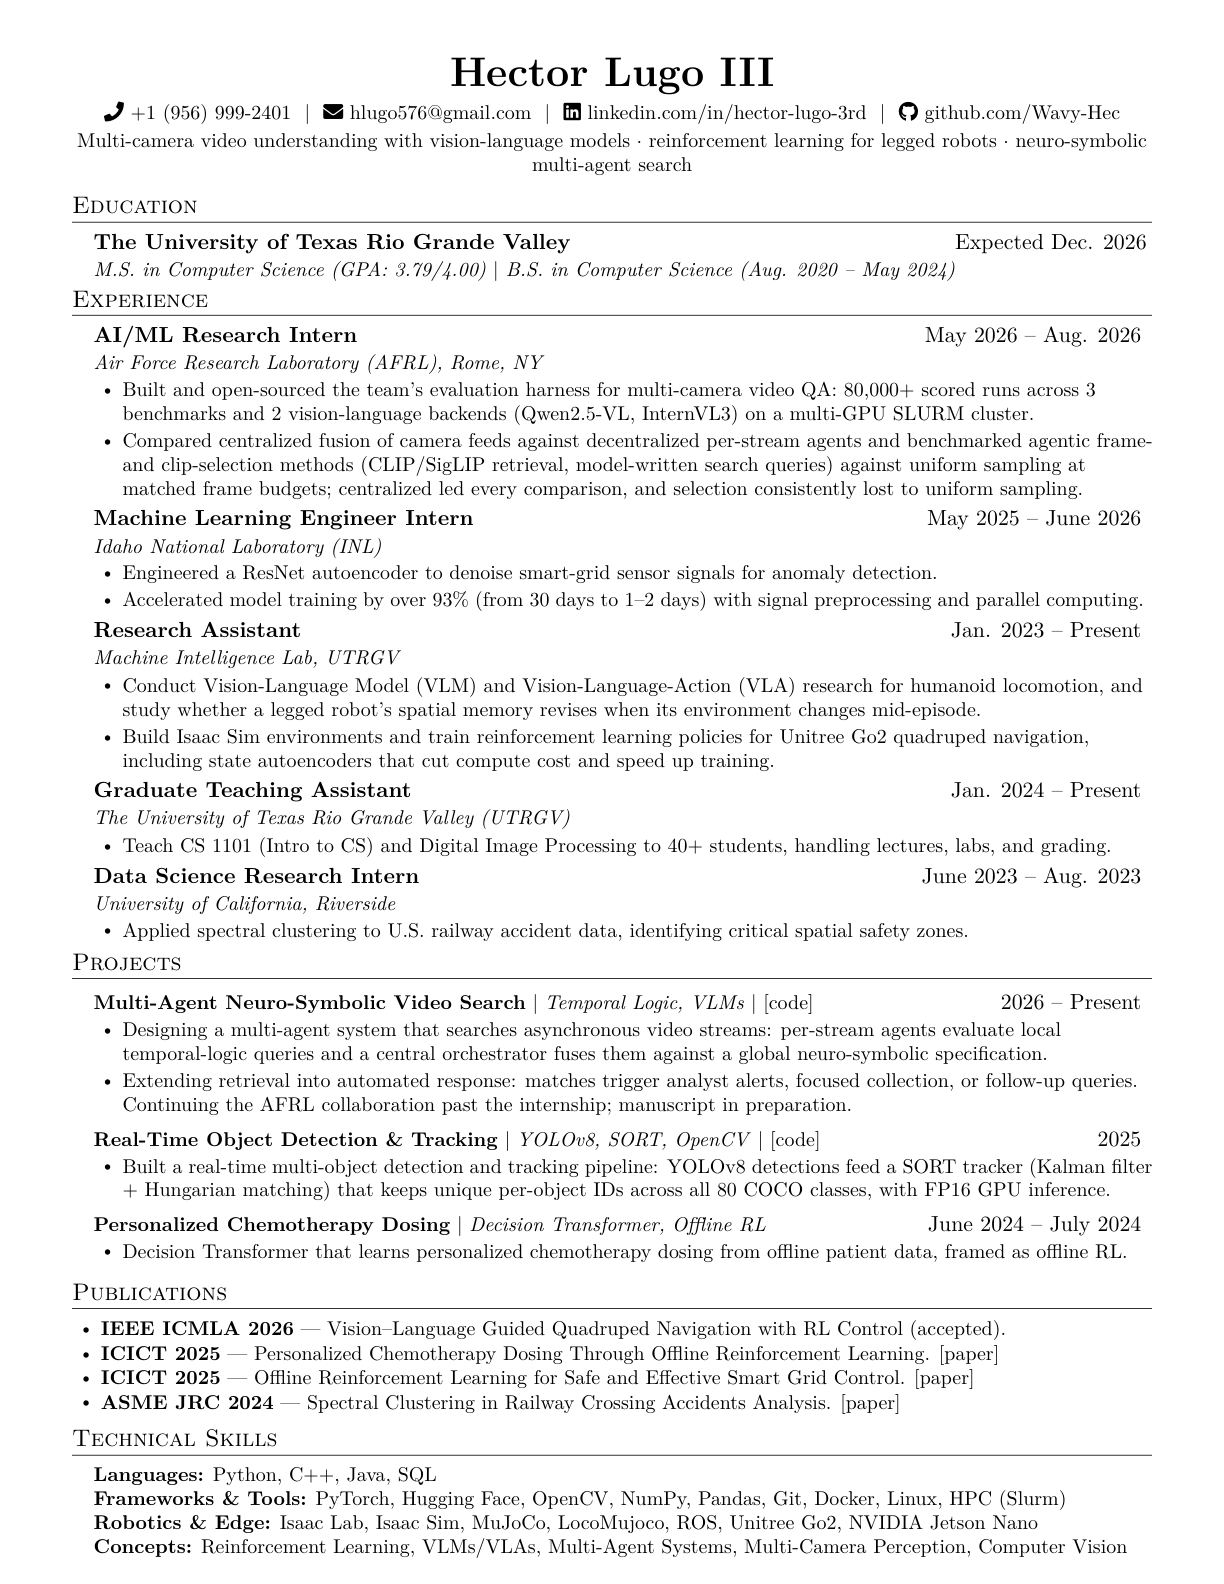
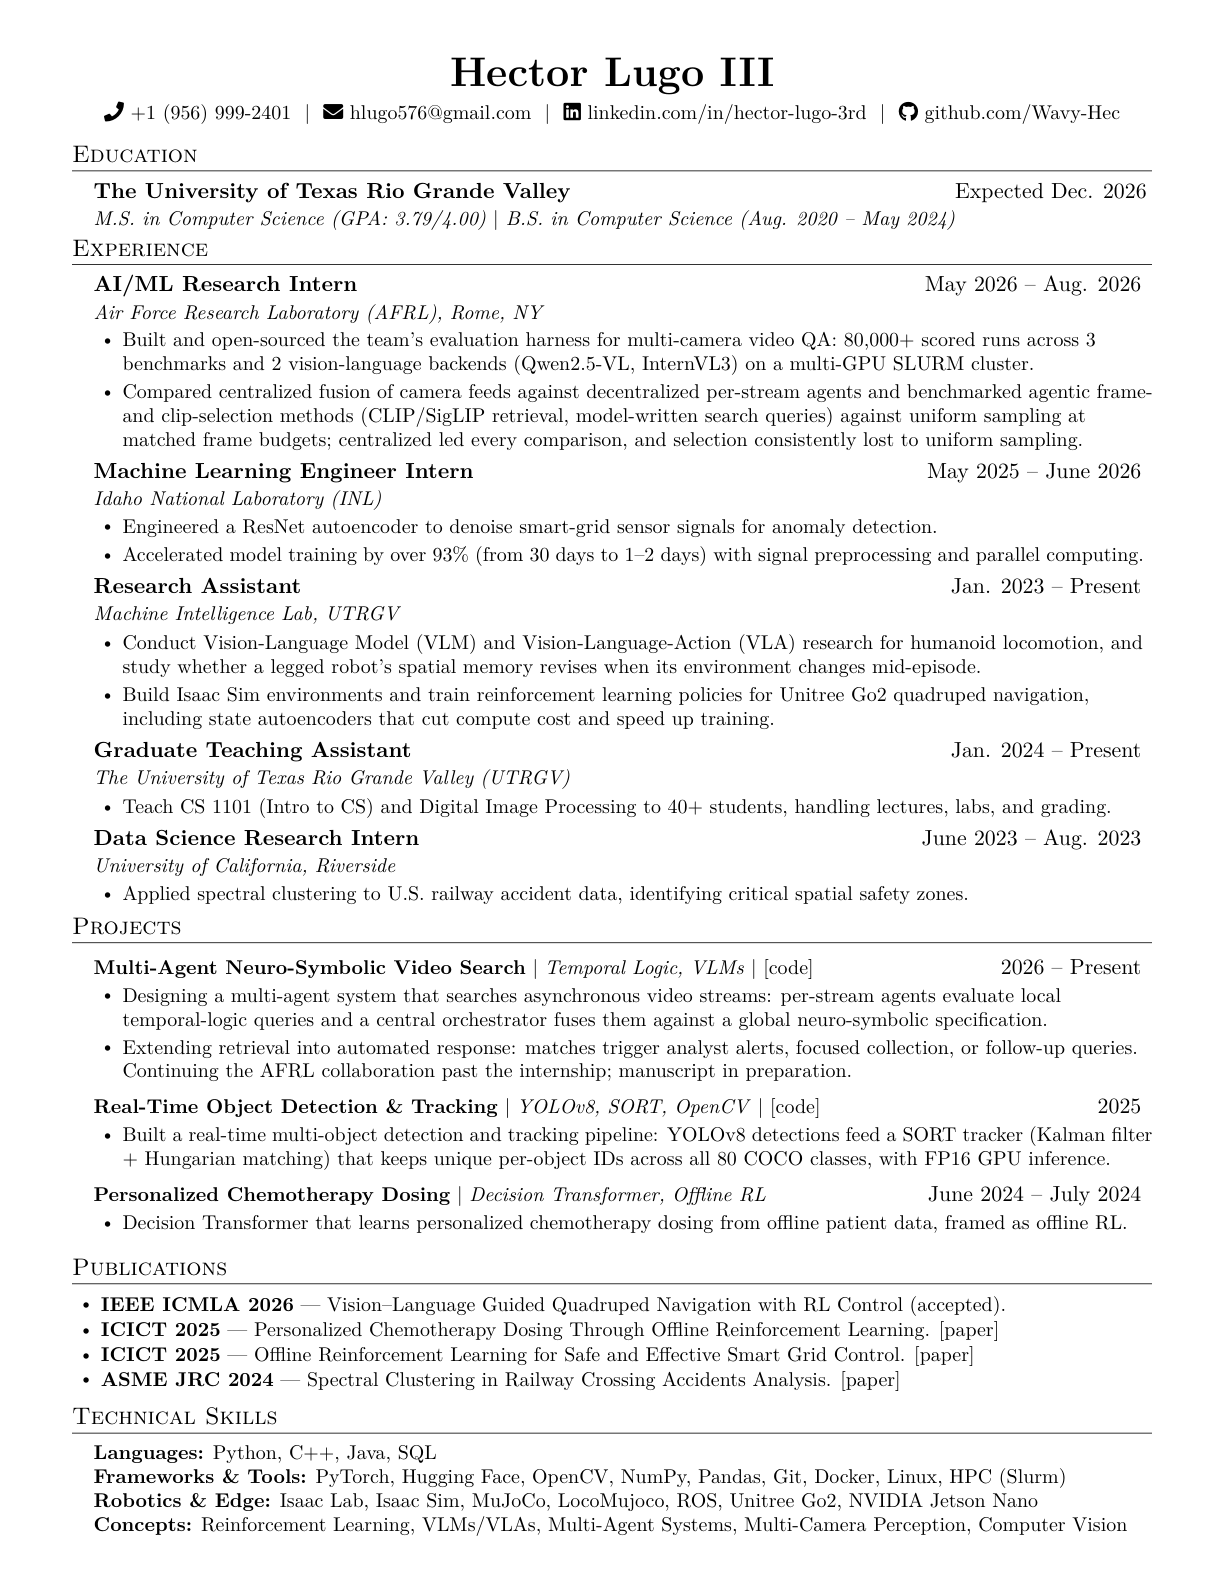
Update Fall 2026 resume to revised version; regenerate viewer

Changed region(s): [[0.0621, 0.0619, 0.9314, 0.9899]]

diff --git a/resume.html b/resume.html
@@ -80,13 +80,13 @@
       <a class="lk" href="mailto:hlugo576@gmail.com" title="Email hlugo576@gmail.com" aria-label="Email hlugo576@gmail.com" style="left:26.243%;top:6.305%;width:17.328%;height:1.667%"></a>
       <a class="lk" href="https://linkedin.com/in/hector-lugo-3rd" target="_blank" rel="noopener" title="LinkedIn profile" aria-label="LinkedIn profile" style="left:45.868%;top:6.305%;width:25.092%;height:1.667%"></a>
       <a class="lk" href="https://github.com/Wavy-Hec" target="_blank" rel="noopener" title="GitHub profile" aria-label="GitHub profile" style="left:73.257%;top:6.305%;width:18.406%;height:1.667%"></a>
-      <a class="lk" href="https://github.com/Wavy-Hec/MultiCam" target="_blank" rel="noopener" title="MultiCam repo on GitHub" aria-label="MultiCam repo on GitHub" style="left:7.484%;top:62.405%;width:35.638%;height:1.962%"></a>
-      <a class="lk" href="https://github.com/Wavy-Hec/MultiCam" target="_blank" rel="noopener" title="MultiCam repo on GitHub" aria-label="MultiCam repo on GitHub" style="left:62.189%;top:62.405%;width:4.441%;height:1.962%"></a>
-      <a class="lk" href="https://github.com/Wavy-Hec/ObjectDetection" target="_blank" rel="noopener" title="Object detection repo on GitHub" aria-label="Object detection repo on GitHub" style="left:7.484%;top:70.999%;width:33.367%;height:1.962%"></a>
-      <a class="lk" href="https://github.com/Wavy-Hec/ObjectDetection" target="_blank" rel="noopener" title="Object detection repo on GitHub" aria-label="Object detection repo on GitHub" style="left:62.747%;top:70.999%;width:4.441%;height:1.962%"></a>
-      <a class="lk" href="https://link.springer.com/chapter/10.1007/978-981-96-6429-0_39" target="_blank" rel="noopener" title="Read the paper (Springer)" aria-label="Read the paper (Springer)" style="left:76.511%;top:84.777%;width:5.259%;height:1.509%"></a>
-      <a class="lk" href="https://par.nsf.gov/servlets/purl/10673002" target="_blank" rel="noopener" title="Read the paper (NSF PAR)" aria-label="Read the paper (NSF PAR)" style="left:74.497%;top:86.317%;width:5.259%;height:1.509%"></a>
-      <a class="lk" href="https://asmedigitalcollection.asme.org/JRC/proceedings/JRC2024/87776/V001T05A011/1201052" target="_blank" rel="noopener" title="Read the paper (ASME)" aria-label="Read the paper (ASME)" style="left:68.458%;top:87.858%;width:5.259%;height:1.509%"></a>
+      <a class="lk" href="https://github.com/Wavy-Hec/MultiCam" target="_blank" rel="noopener" title="MultiCam repo on GitHub" aria-label="MultiCam repo on GitHub" style="left:7.484%;top:60.153%;width:35.638%;height:1.962%"></a>
+      <a class="lk" href="https://github.com/Wavy-Hec/MultiCam" target="_blank" rel="noopener" title="MultiCam repo on GitHub" aria-label="MultiCam repo on GitHub" style="left:62.189%;top:60.153%;width:4.441%;height:1.962%"></a>
+      <a class="lk" href="https://github.com/Wavy-Hec/ObjectDetection" target="_blank" rel="noopener" title="Object detection repo on GitHub" aria-label="Object detection repo on GitHub" style="left:7.484%;top:68.971%;width:33.367%;height:1.962%"></a>
+      <a class="lk" href="https://github.com/Wavy-Hec/ObjectDetection" target="_blank" rel="noopener" title="Object detection repo on GitHub" aria-label="Object detection repo on GitHub" style="left:62.747%;top:68.971%;width:4.441%;height:1.962%"></a>
+      <a class="lk" href="https://link.springer.com/chapter/10.1007/978-981-96-6429-0_39" target="_blank" rel="noopener" title="Read the paper (Springer)" aria-label="Read the paper (Springer)" style="left:76.511%;top:83.258%;width:5.259%;height:1.509%"></a>
+      <a class="lk" href="https://par.nsf.gov/servlets/purl/10673002" target="_blank" rel="noopener" title="Read the paper (NSF PAR)" aria-label="Read the paper (NSF PAR)" style="left:74.497%;top:84.831%;width:5.259%;height:1.509%"></a>
+      <a class="lk" href="https://asmedigitalcollection.asme.org/JRC/proceedings/JRC2024/87776/V001T05A011/1201052" target="_blank" rel="noopener" title="Read the paper (ASME)" aria-label="Read the paper (ASME)" style="left:68.458%;top:86.403%;width:5.259%;height:1.509%"></a>
     </div>
   </main>
   <p class="hint">links in the résumé are clickable</p>
